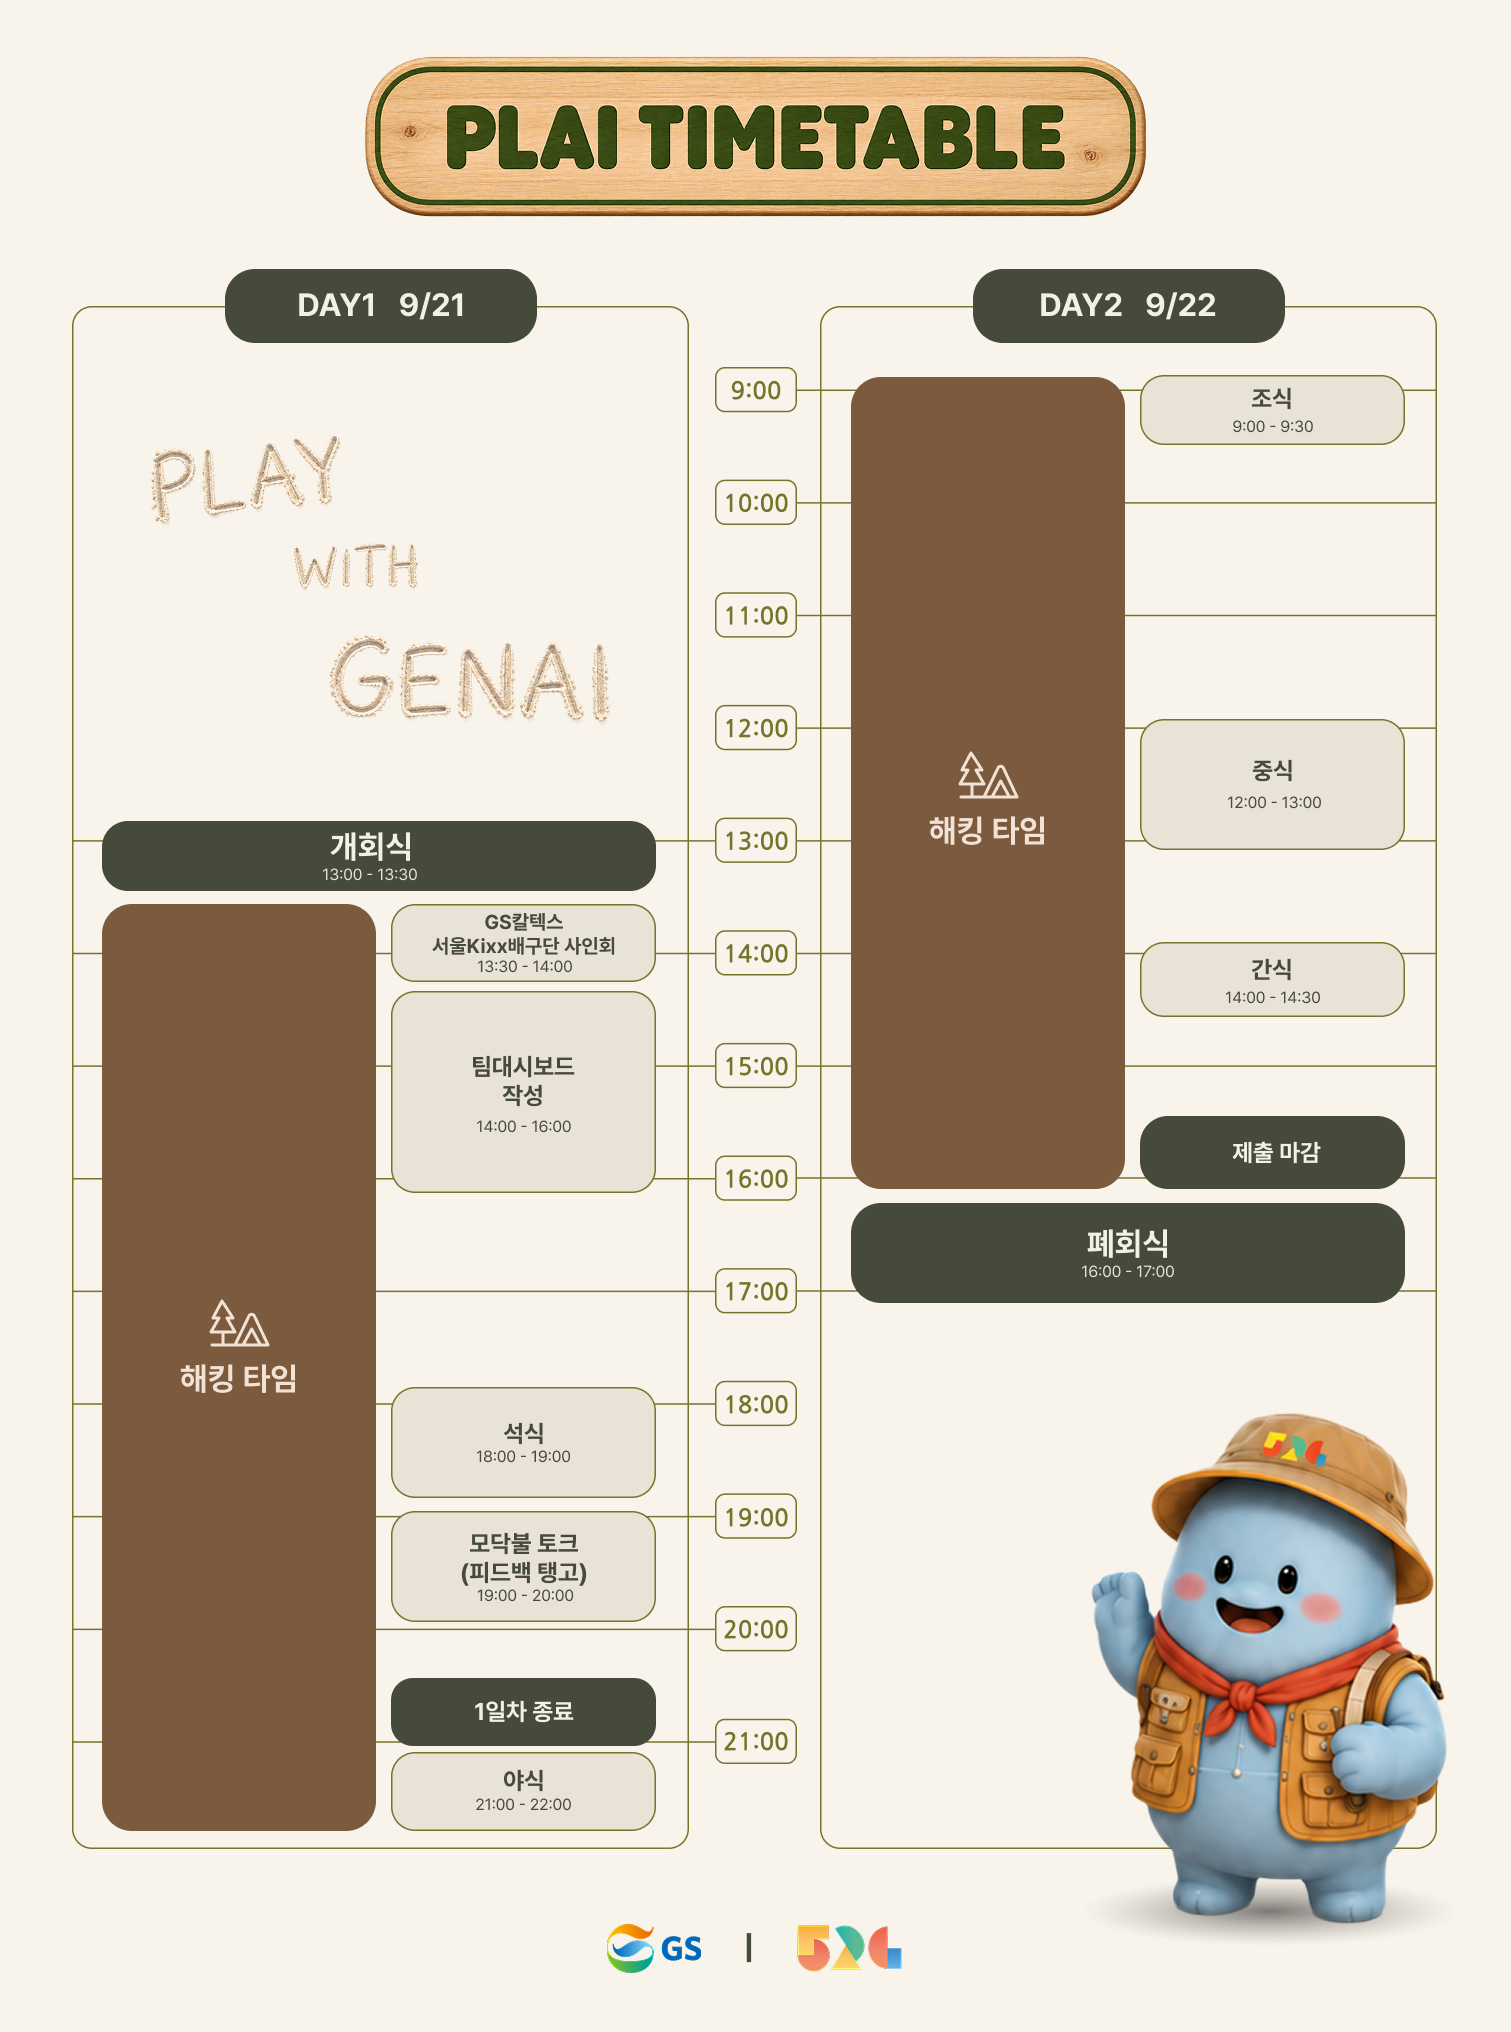
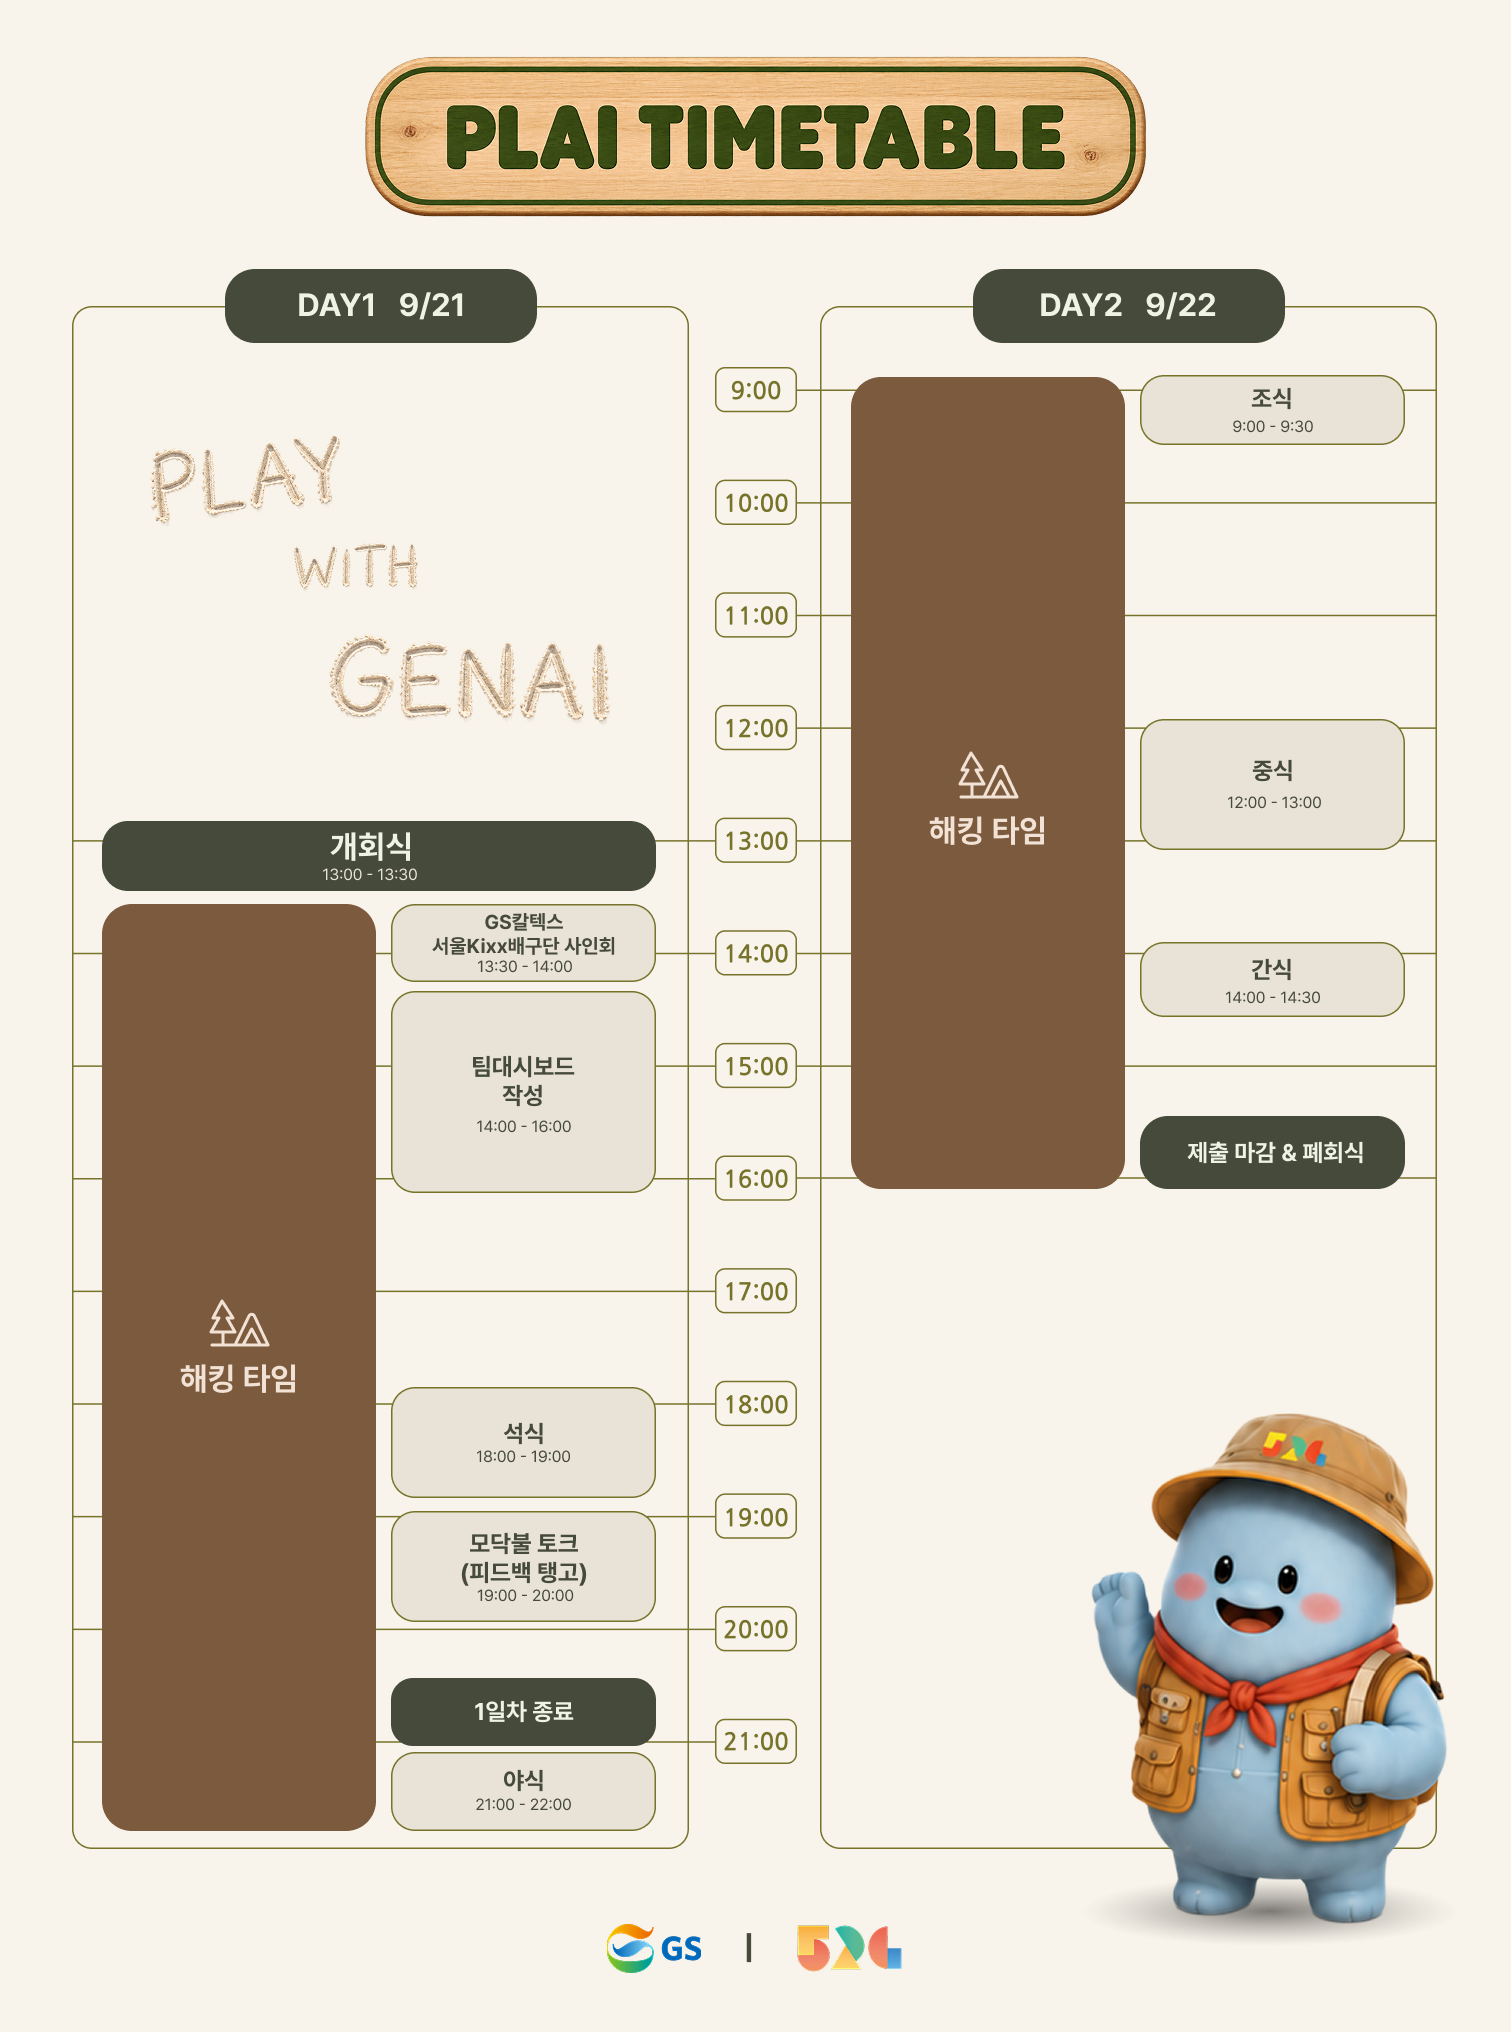
이용 안내: '5회'를 주문 시각과 같은 표시로 · 새 타임테이블
두 카드에서 놓치면 안 되는 건 '몇 번까지'와 '언제까지' 둘뿐입니다. 그런데
호출 횟수는 문장 속에 흘러가고 주문 시각만 주황으로 서 있었습니다. 둘에
같은 옷을 입힙니다 — 주황(accent-ink) 17px 굵게.

설명 줄은 회색을 걷고 본문 색으로 맞췄습니다. 회색이면 카드 안에서 두 줄의
색이 갈려, 시각 줄만 다른 글처럼 읽혔습니다. 이제 카드 안은 전부 같은
검정이고 주황은 저 두 마디뿐입니다.

강조는 .guide-must-card .guide-hi 로 겁니다. 카드 제목용 규칙
(.guide-must-card b)이 b 를 블록으로 만들어 두어, 그냥 .guide-hi 로는 이
한 마디가 혼자 한 줄을 차지했습니다.

타임테이블 이미지도 새 파일로 바꿉니다(캐시 v6 → v7). 크기가 전과 같은
1511×2032 라 음식 여정과 맞춰 둔 비율은 그대로입니다.

Changed region(s): [[0.5599, 0.5581, 0.9332, 0.6511]]

diff --git a/participant-app/src/styles.css b/participant-app/src/styles.css
@@ -1690,7 +1690,18 @@ body {
 }
 .guide-must-card p {
   margin: 0;
-  font-size: var(--po-body-size); line-height: 22px; color: var(--po-text-secondary);
+  /* 설명도 본문 색으로 둡니다. 회색이면 카드 안에서 두 줄의 색이 갈려,
+     아래 시각 줄만 다른 글처럼 읽혔습니다. */
+  font-size: var(--po-body-size); line-height: 22px; color: var(--po-text-primary);
+}
+/* 문장 안에서 한 마디만 세우는 표시 — '5회'와 주문 시각이 같은 옷을 입습니다.
+   카드 제목용 규칙(.guide-must-card b)이 b 를 블록으로 만들어 두었으므로,
+   그보다 힘이 센 선택자로 다시 문장 안에 앉힙니다 — 안 그러면 이 한 마디가
+   혼자 한 줄을 차지합니다. */
+.guide-must-card .guide-hi {
+  display: inline;
+  font-size: 16.5px; font-weight: 700;
+  color: var(--po-accent-ink); font-variant-numeric: tabular-nums;
 }
 /* 주문 창 — 시각만 주황으로 세우고 나머지는 본문 색 그대로.
    알약으로 감싸 두면 눌러야 하는 것처럼 보입니다. */
@@ -1702,10 +1713,7 @@ body {
 /* 카드 안의 b 는 제목용이라 블록입니다(.guide-must-card b).
    이 b 는 문장 가운데 들어가는 색 강조라 다시 인라인으로 돌립니다 —
    안 그러면 시각과 '주문할 수 있어요'가 두 줄로 갈립니다. */
-.guide-when b {
-  display: inline;
-  color: var(--po-accent-ink); font-weight: 700; font-variant-numeric: tabular-nums;
-}
+
 
 /* 2번은 이름만. 무엇인지는 그 탭에 가면 바로 보이므로 여기서는 "있다"만
    알려줍니다 — 설명을 붙이면 한 화면을 넘깁니다. */

diff --git a/participant-app/src/components/GuideSection.jsx b/participant-app/src/components/GuideSection.jsx
@@ -1,5 +1,21 @@
 import { guideMustItems, guideCanItems } from '../config.js'
 
+// 문장 안의 한 마디만 주황으로 세웁니다 ('5회' · 주문 시각).
+// 두 카드에서 놓치면 안 되는 건 '몇 번까지'와 '언제까지' 둘뿐이라,
+// 나머지 글자와 같은 색으로 흘려보내지 않습니다.
+function emphasize(text, word) {
+  if (!word) return text
+  const at = text.indexOf(word)
+  if (at < 0) return text
+  return (
+    <>
+      {text.slice(0, at)}
+      <b className="guide-hi">{word}</b>
+      {text.slice(at + word.length)}
+    </>
+  )
+}
+
 // 이용 안내 본문 — 두 덩이입니다.
 //
 //   1  반드시 G-Order로 해야 하는 것   호출(필드리그만) · 주문
@@ -32,12 +48,12 @@ export default function GuideSection({ teamId }) {
           {must.map((item) => (
             <div className="guide-must-card" key={item.id}>
               <b>{item.title}</b>
-              <p>{item.desc}</p>
+              <p>{emphasize(item.desc, item.emphasis)}</p>
               {/* 시각만 주황으로 — 이 카드에서 놓치면 안 되는 건 시간뿐입니다.
                   알약으로 감싸 두니 눌러야 할 것처럼 보였습니다. */}
               {item.when && (
                 <p className="guide-when">
-                  <b>{item.when}</b>
+                  <b className="guide-hi">{item.when}</b>
                   {item.note ? ' ' + item.note : ''}
                 </p>
               )}

diff --git a/admin-app/src/config.js b/admin-app/src/config.js
@@ -77,7 +77,7 @@ export const IMAGE_BOARDS = [
     label: '타임테이블',
     icon: '🗓',
     title: '해커톤 타임테이블',
-    src: './board/timetable.png?v=6',
+    src: './board/timetable.png?v=7',
     alt: 'PLAI 타임테이블 — DAY1 9/21, DAY2 9/22 시간별 일정',
     leagues: ['field'],
   },
@@ -1296,6 +1296,8 @@ export function guideMustItems(teamId) {
       id: 'call',
       title: '마스터 메이트 호출',
       desc: `도움이 필요할 때 팀당 ${CALL_LIMIT_PER_TEAM}회까지 마스터 메이트를 호출할 수 있어요.`,
+      // 문장 안에서 이 말만 주황으로 세웁니다 (주문 카드의 시각과 같은 표시)
+      emphasis: `${CALL_LIMIT_PER_TEAM}회`,
     },
     order,
   ]

diff --git a/participant-app/src/config.js b/participant-app/src/config.js
@@ -77,7 +77,7 @@ export const IMAGE_BOARDS = [
     label: '타임테이블',
     icon: '🗓',
     title: '해커톤 타임테이블',
-    src: './board/timetable.png?v=6',
+    src: './board/timetable.png?v=7',
     alt: 'PLAI 타임테이블 — DAY1 9/21, DAY2 9/22 시간별 일정',
     leagues: ['field'],
   },
@@ -1296,6 +1296,8 @@ export function guideMustItems(teamId) {
       id: 'call',
       title: '마스터 메이트 호출',
       desc: `도움이 필요할 때 팀당 ${CALL_LIMIT_PER_TEAM}회까지 마스터 메이트를 호출할 수 있어요.`,
+      // 문장 안에서 이 말만 주황으로 세웁니다 (주문 카드의 시각과 같은 표시)
+      emphasis: `${CALL_LIMIT_PER_TEAM}회`,
     },
     order,
   ]
